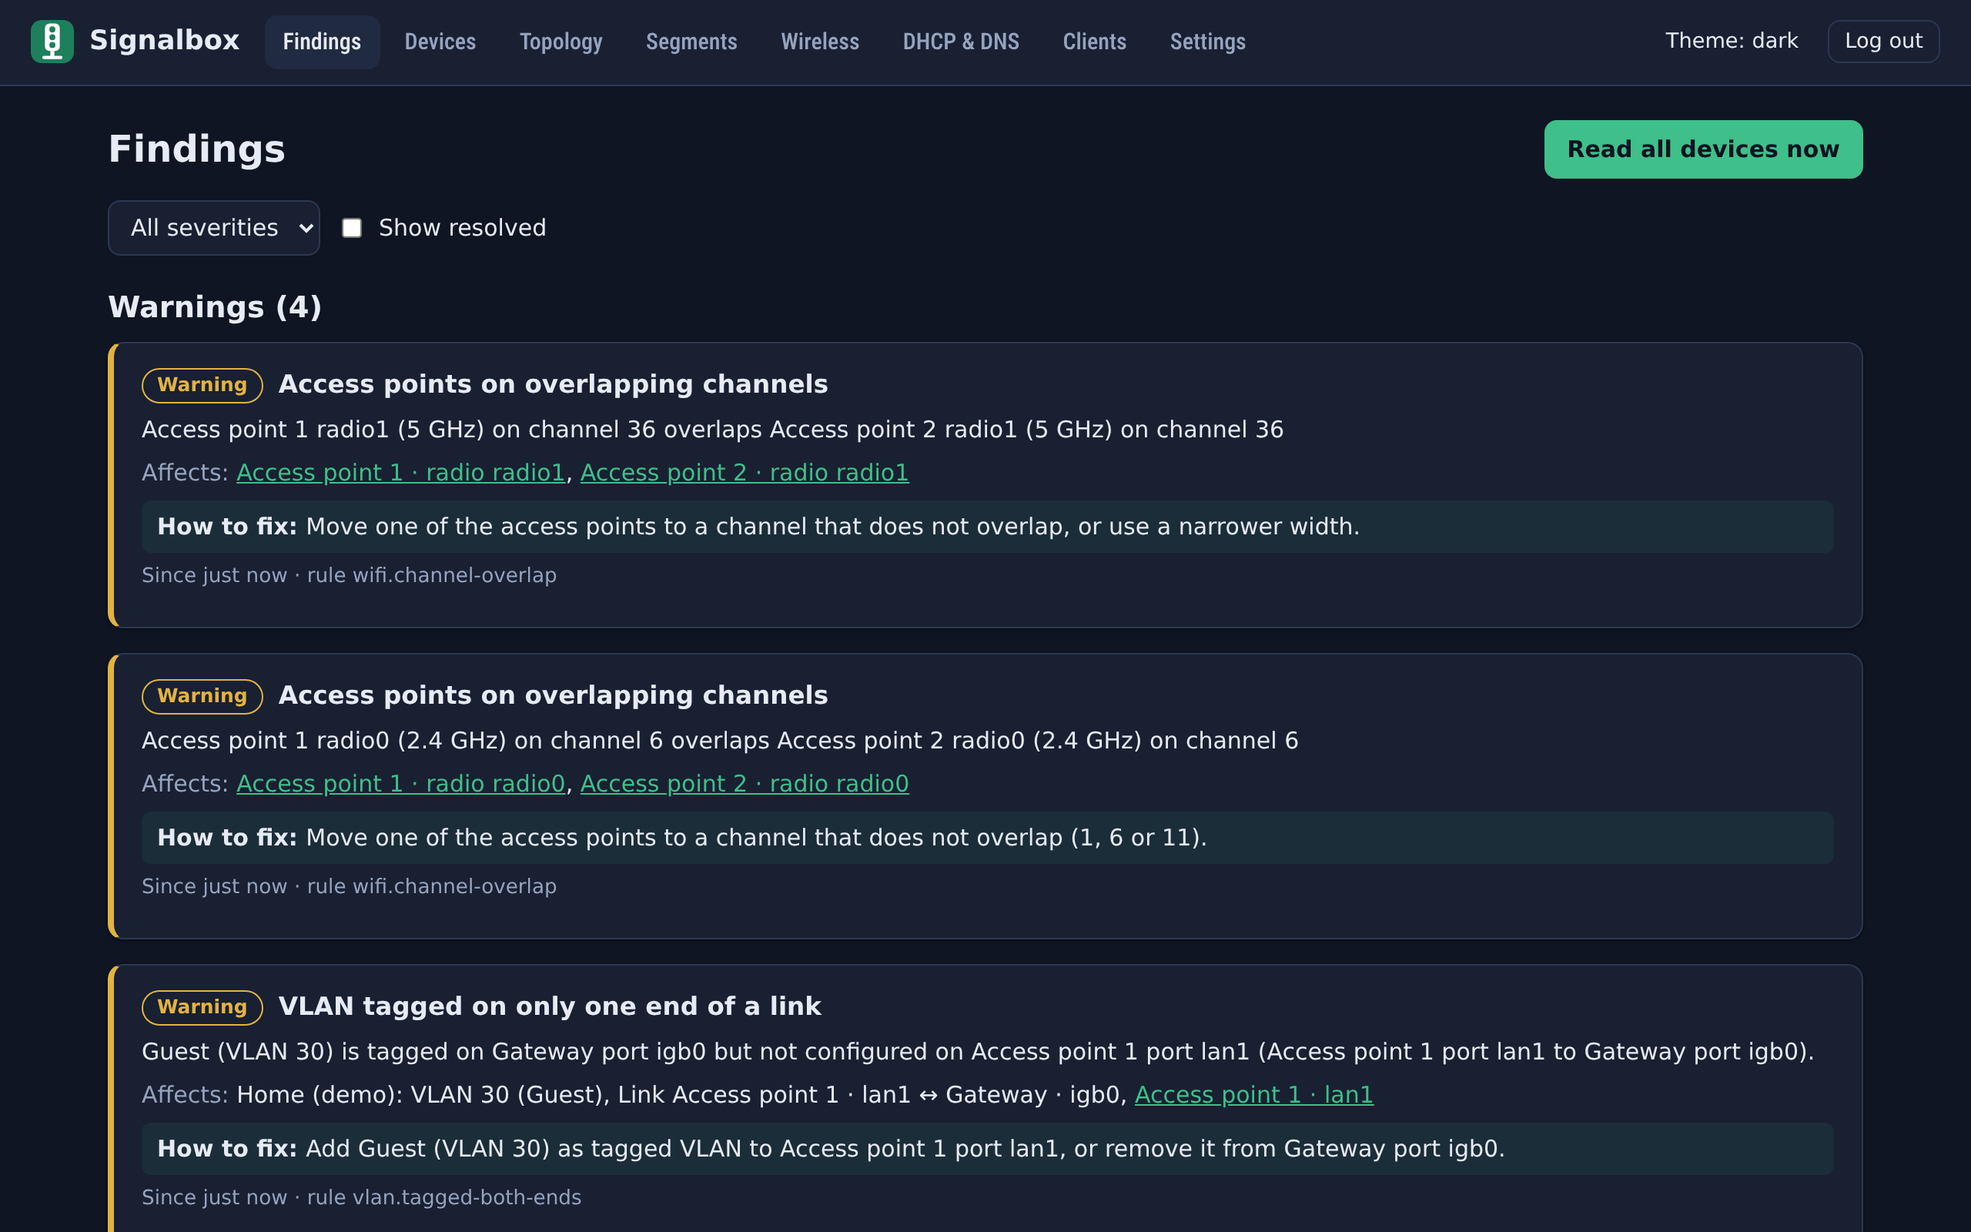
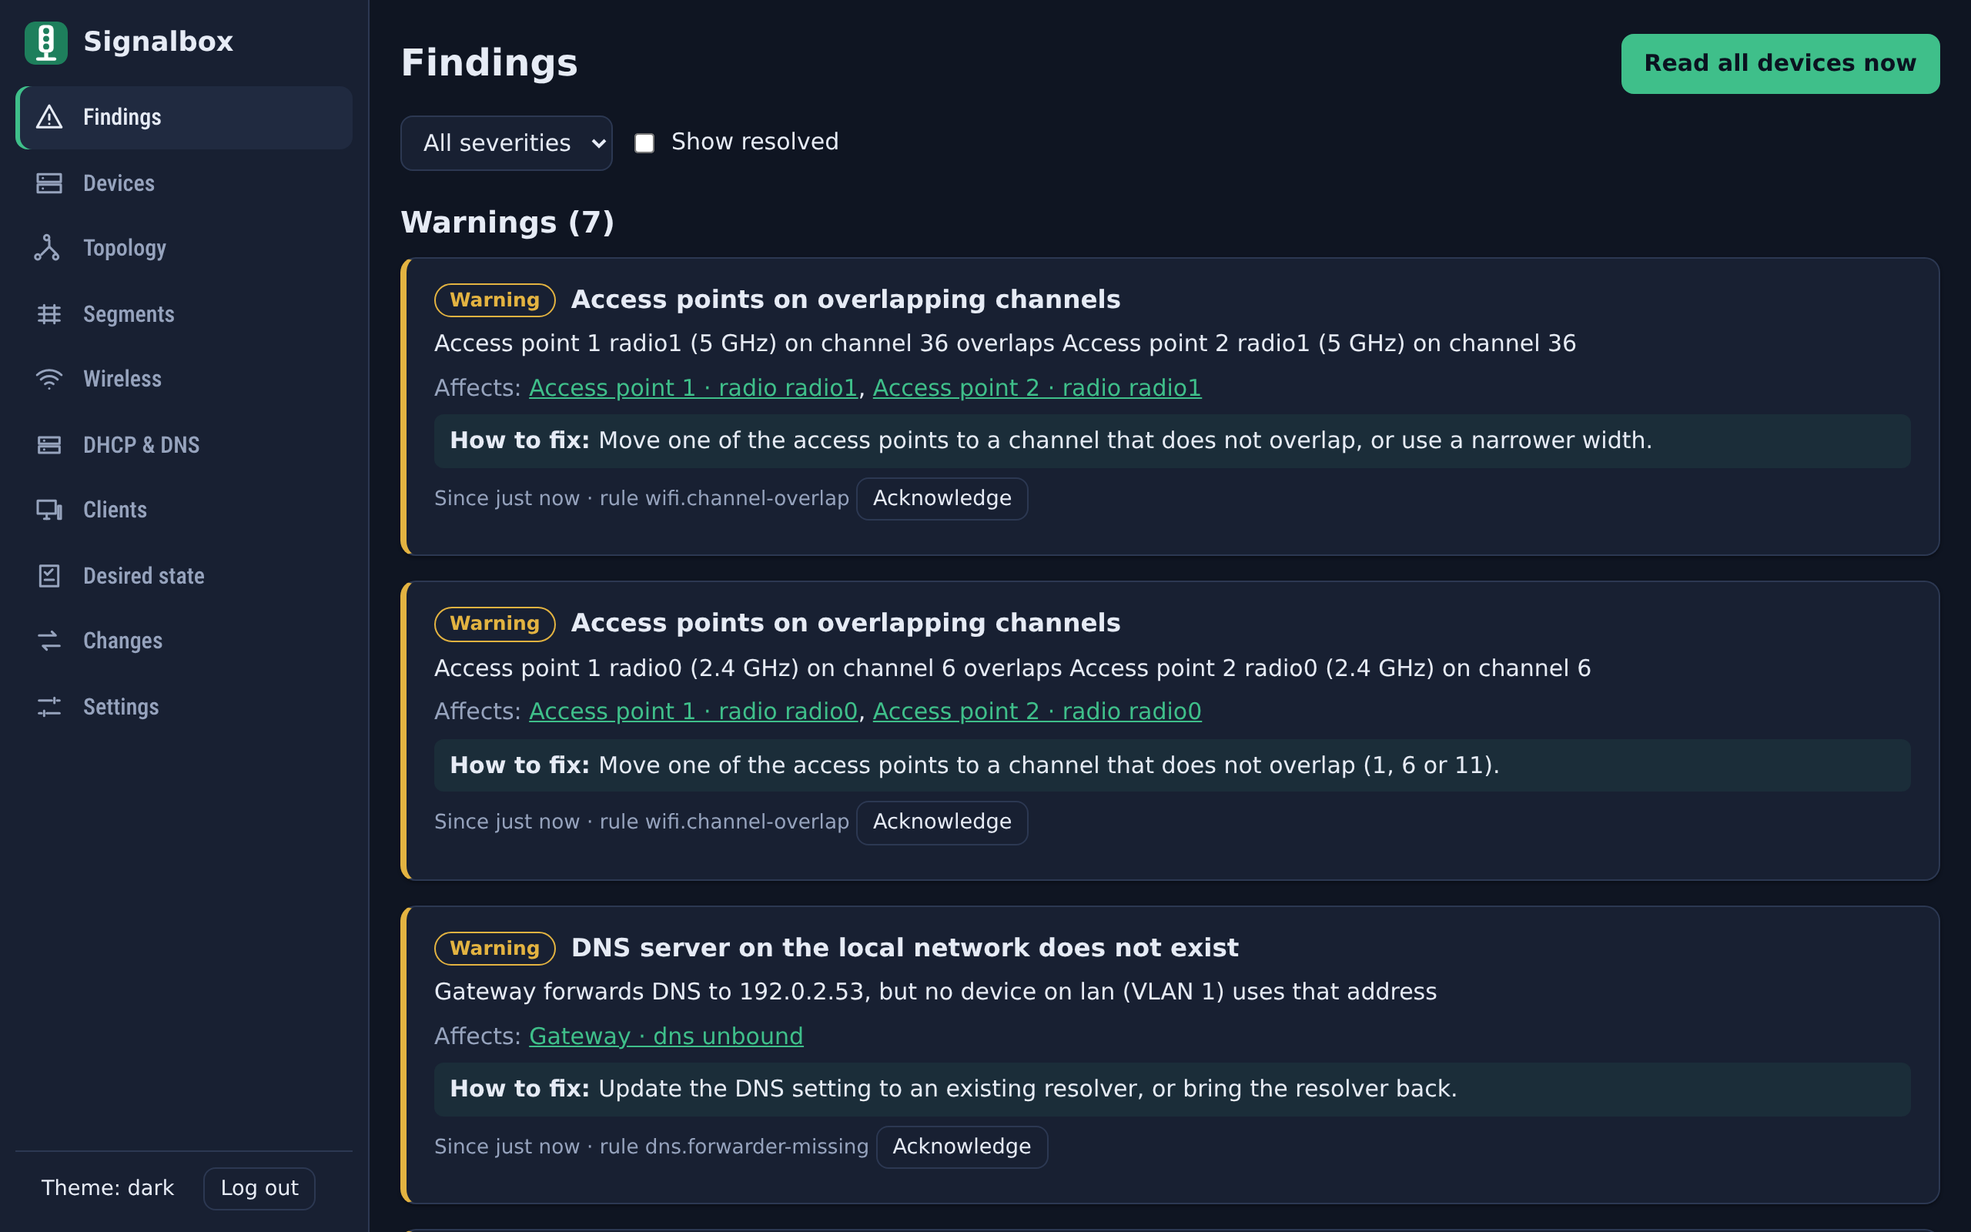
UI: side bar on wide screens, menu drawer on narrow ones (#230) (#234)
- Left side bar (icons, brand, theme, log out) from 1100 px; compact top bar with menu button below
- Drawer: aria-expanded, inert page behind, focus trap, Esc/scrim/navigation close
- e2e tests at phone, tablet and desktop sizes in both themes
- Screenshots regenerated (demo data), new phone menu shot; fix dark-theme switch in the tool

diff --git a/src/signalbox/web/static/nav.js b/src/signalbox/web/static/nav.js
@@ -1,0 +1,114 @@
+// Navigation shell: a side bar on wide screens, a compact top bar plus the same side bar as a drawer
+// on narrow ones. Icons are built with setAttribute, never from markup strings.
+import { h, s } from './util.js';
+
+export const WIDE = window.matchMedia('(min-width: 1100px)');
+
+// 24x24 stroke icons, one path string per shape.
+const ICONS = {
+  findings: ['M12 3 2.5 20h19L12 3z', 'M12 10v4', 'M12 17.2v.1'],
+  devices: ['M3 5h18v6H3z', 'M3 13h18v6H3z', 'M7 8h.01', 'M7 16h.01'],
+  topology: ['M12 4a2 2 0 1 0 0 .01', 'M5 19a2 2 0 1 0 0 .01', 'M19 19a2 2 0 1 0 0 .01', 'M12 6v5l-6 6', 'M12 11l6 6'],
+  segments: ['M4 7h16', 'M4 12h16', 'M4 17h16', 'M8 5v14', 'M16 5v14'],
+  wireless: ['M2.5 9a14 14 0 0 1 19 0', 'M5.5 12.5a9.5 9.5 0 0 1 13 0', 'M8.8 16a5 5 0 0 1 6.4 0', 'M12 19.5v.01'],
+  services: ['M4 6h16v5H4z', 'M4 13h16v5H4z', 'M8 8.5h.01', 'M8 15.5h.01'],
+  clients: ['M3 5h14v10H3z', 'M8 19h4', 'M10 15v4', 'M19 9h2v10h-2z'],
+  desired: ['M5 4h14v16H5z', 'M8.5 9l2 2 4-4', 'M8.5 15h7'],
+  changes: ['M4 8h13l-3-3', 'M20 16H7l3 3'],
+  settings: ['M4 7h10', 'M18 7h2', 'M4 17h2', 'M10 17h10', 'M16 5v4', 'M8 15v4'],
+  menu: ['M4 6h16', 'M4 12h16', 'M4 18h16'],
+  close: ['M6 6l12 12', 'M18 6L6 18'],
+};
+
+export function icon(name) {
+  return s(
+    'svg',
+    { class: 'icon', viewBox: '0 0 24 24', width: '20', height: '20', fill: 'none', stroke: 'currentColor', 'stroke-width': '1.8', 'stroke-linecap': 'round', 'stroke-linejoin': 'round', 'aria-hidden': 'true', focusable: 'false' },
+    ICONS[name].map((d) => s('path', { d })),
+  );
+}
+
+const FOCUSABLE = 'a[href], button:not([disabled])';
+let closeCurrent = null;
+
+// Close the drawer when the screen becomes wide while it is open.
+WIDE.addEventListener('change', () => {
+  if (WIDE.matches && closeCurrent) closeCurrent(false);
+});
+
+/**
+ * items: [[key, href, label]]; current: key of the active section; brand(): a logo node;
+ * actions: node with theme and log out. Returns {shell, content}; the caller fills content.
+ */
+export function buildShell({ items, current, brand, actions }) {
+  const currentLabel = (items.find(([key]) => key === current) || [])[2] || '';
+  const menuBtn = h(
+    'button',
+    { class: 'btn menu-btn', type: 'button', 'aria-label': 'Menu', 'aria-expanded': 'false', 'aria-controls': 'sidebar', 'data-testid': 'nav-menu' },
+    icon('menu'),
+  );
+  const topbar = h(
+    'header',
+    { class: 'topbar' },
+    menuBtn,
+    h('a', { class: 'brand', href: '#/', 'aria-label': 'Signalbox' }, brand(), h('span', { class: 'brand-text' }, 'Signalbox')),
+    h('span', { class: 'current-section', 'data-testid': 'nav-current' }, currentLabel),
+  );
+  const nav = h(
+    'nav',
+    { class: 'nav', 'aria-label': 'Main' },
+    items.map(([key, href, text]) =>
+      h('a', { href, 'aria-current': current === key ? 'page' : null, 'data-testid': `nav-${key}` }, icon(key), h('span', { class: 'nav-label' }, text)),
+    ),
+  );
+  const closeBtn = h('button', { class: 'btn ghost close-btn', type: 'button', 'aria-label': 'Close menu', 'data-testid': 'nav-close' }, icon('close'));
+  const sidebar = h(
+    'div',
+    { class: 'sidebar', id: 'sidebar' },
+    h('div', { class: 'sidebar-head' }, h('a', { class: 'brand', href: '#/', 'aria-label': 'Signalbox, start page' }, brand(), 'Signalbox'), closeBtn),
+    nav,
+    actions,
+  );
+  const scrim = h('div', { class: 'scrim', 'data-testid': 'nav-scrim' });
+  const content = h('div', { class: 'content' });
+  const shell = h('div', { class: 'shell' }, topbar, sidebar, scrim, content);
+
+  const setOpen = (open, restoreFocus = true) => {
+    shell.classList.toggle('drawer-open', open);
+    menuBtn.setAttribute('aria-expanded', String(open));
+    for (const el of [topbar, content]) el.toggleAttribute('inert', open);
+    if (open) {
+      closeCurrent = () => setOpen(false, false);
+      (nav.querySelector('[aria-current="page"]') || nav.querySelector('a')).focus();
+    } else {
+      closeCurrent = null;
+      if (restoreFocus && sidebar.contains(document.activeElement)) menuBtn.focus();
+    }
+  };
+  menuBtn.addEventListener('click', () => setOpen(!shell.classList.contains('drawer-open')));
+  closeBtn.addEventListener('click', () => setOpen(false));
+  scrim.addEventListener('click', () => setOpen(false));
+  // A link to the page already shown does not change the hash, so close explicitly.
+  nav.addEventListener('click', (e) => {
+    if (e.target.closest('a')) setOpen(false, false);
+  });
+  sidebar.addEventListener('keydown', (e) => {
+    if (!shell.classList.contains('drawer-open')) return;
+    if (e.key === 'Escape') {
+      e.preventDefault();
+      setOpen(false);
+    } else if (e.key === 'Tab') {
+      const stops = [...sidebar.querySelectorAll(FOCUSABLE)].filter((el) => el.offsetParent !== null);
+      const first = stops[0];
+      const last = stops[stops.length - 1];
+      if (e.shiftKey && document.activeElement === first) {
+        e.preventDefault();
+        last.focus();
+      } else if (!e.shiftKey && document.activeElement === last) {
+        e.preventDefault();
+        first.focus();
+      }
+    }
+  });
+  return { shell, content };
+}

diff --git a/src/signalbox/web/static/style.css b/src/signalbox/web/static/style.css
@@ -33,14 +33,36 @@ h1 { font-size: 1.5rem; } h2 { font-size: 1.2rem; } h3 { font-size: 1.02rem; }
 :focus-visible { outline: 2px solid var(--accent); outline-offset: 2px; }
 [hidden] { display: none !important; }
 
-.topbar { display: flex; align-items: center; gap: 16px; padding: 10px 20px; background: var(--surface); border-bottom: 1px solid var(--border); position: sticky; top: 0; z-index: 10; }
-.brand { display: flex; align-items: center; gap: 10px; font-weight: 700; font-size: 1.1rem; color: var(--text); text-decoration: none; }
-.brand .logo { width: 28px; height: 28px; border-radius: 7px; }
+.brand { display: flex; align-items: center; gap: 10px; font-weight: 700; font-size: 1.1rem; color: var(--text); text-decoration: none; white-space: nowrap; }
+.brand .logo { width: 28px; height: 28px; border-radius: 7px; flex: none; }
 .login .brand .logo { width: 40px; height: 40px; border-radius: 10px; }
-.nav { display: flex; gap: 4px; flex: 1; }
-.nav a { padding: 6px 12px; border-radius: 8px; color: var(--muted); text-decoration: none; font-weight: 500; }
-.nav a[aria-current="page"] { background: var(--surface-2); color: var(--text); }
-.topbar-actions { display: flex; gap: 8px; align-items: center; }
+.content { min-width: 0; }
+
+/* navigation: side bar on wide screens, drawer behind a menu button on narrow ones */
+.topbar { display: none; }
+.sidebar { position: fixed; inset: 0 auto 0 0; width: 240px; display: flex; flex-direction: column; gap: 8px; padding: 14px 10px; background: var(--surface); border-right: 1px solid var(--border); z-index: 40; overflow-y: auto; }
+.sidebar-head { display: flex; align-items: center; justify-content: space-between; padding: 0 6px 6px; }
+.close-btn { display: none; padding: 4px 6px; }
+.nav { display: flex; flex-direction: column; gap: 2px; flex: 1; }
+.nav a { display: flex; align-items: center; gap: 12px; padding: 9px 12px; border-radius: 8px; color: var(--muted); text-decoration: none; font-weight: 500; white-space: nowrap; }
+.nav a:hover { background: var(--surface-2); }
+.nav a[aria-current="page"] { background: var(--surface-2); color: var(--text); box-shadow: inset 3px 0 0 var(--accent); }
+.nav .icon, .menu-btn .icon, .close-btn .icon { flex: none; }
+.sidebar-actions { display: flex; gap: 8px; align-items: center; flex-wrap: wrap; padding: 10px 6px 0; border-top: 1px solid var(--border); }
+.scrim { display: none; }
+.content { margin-left: 240px; }
+@media (max-width: 1099px) {
+  .content { margin-left: 0; }
+  .topbar { display: flex; align-items: center; gap: 10px; padding: 6px 10px; background: var(--surface); border-bottom: 1px solid var(--border); position: sticky; top: 0; z-index: 10; }
+  .menu-btn { display: flex; padding: 5px 8px; flex: none; }
+  .current-section { margin-left: auto; min-width: 0; overflow: hidden; text-overflow: ellipsis; white-space: nowrap; font-weight: 600; }
+  .sidebar { width: min(300px, 86vw); transform: translateX(-100%); visibility: hidden; transition: transform .2s ease, visibility 0s .2s; box-shadow: var(--shadow); }
+  .drawer-open .sidebar { transform: none; visibility: visible; transition: transform .2s ease; }
+  .close-btn { display: block; }
+  .drawer-open .scrim { display: block; position: fixed; inset: 0; background: rgb(8 12 22 / 55%); z-index: 30; }
+}
+@media (max-width: 420px) { .brand-text { display: none; } }
+@media (prefers-reduced-motion: reduce) { .sidebar { transition: none !important; } }
 main { max-width: 1180px; margin: 0 auto; padding: 22px 20px 40px; }
 .banner { background: color-mix(in srgb, var(--warn) 18%, var(--surface)); border-bottom: 1px solid var(--warn); padding: 6px 20px; text-align: center; font-size: .9rem; }
 footer { max-width: 1180px; margin: 0 auto; padding: 18px 20px 30px; color: var(--muted); font-size: .85rem; border-top: 1px solid var(--border); }
@@ -191,11 +213,6 @@ legend { font-weight: 600; padding: 0 4px; }
 /* phones */
 @media (max-width: 640px) {
   main { padding: 10px 10px 24px; }
-  .topbar { position: static; padding: 8px 10px; gap: 8px; flex-wrap: wrap; }
-  .topbar-actions { margin-left: auto; }
-  .topbar-actions .btn { padding: 3px 8px; }
-  .nav { order: 3; flex-basis: 100%; flex-wrap: wrap; }
-  .nav a { padding: 4px 8px; }
   .card { padding: 12px; border-radius: 8px; }
   .page-head h1 { font-size: 1.25rem; }
   input[type=text], input[type=password], input[type=number], input[type=search], select, textarea { max-width: none; }

diff --git a/src/signalbox/web/static/app.js b/src/signalbox/web/static/app.js
@@ -1,7 +1,8 @@
 // Entry point: session handling, shell and hash router.
 import { get, onUnauthorized, post } from './api.js';
-import { append, clear, h } from './util.js';
+import { clear, h } from './util.js';
 import { showError } from './ui.js';
+import { buildShell } from './nav.js';
 import { renderFindings } from './views/findings.js';
 import { renderDevices, renderDeviceForm } from './views/devices.js';
 import { renderDevice } from './views/device.js';
@@ -146,14 +147,9 @@ async function render() {
   const route = routeInfo();
   const session = state.session;
   clear(root);
-  const nav = h(
-    'nav',
-    { class: 'nav', 'aria-label': 'Main' },
-    NAV.map(([key, href, text]) => h('a', { href, 'aria-current': route.nav === key ? 'page' : null, 'data-testid': `nav-${key}` }, text)),
-  );
   const actions = h(
     'div',
-    { class: 'topbar-actions' },
+    { class: 'sidebar-actions' },
     themeToggle(),
     h(
       'button',
@@ -169,9 +165,10 @@ async function render() {
       'Log out',
     ),
   );
-  append(root, [h('header', { class: 'topbar' }, h('a', { class: 'brand', href: '#/' }, LOGO(), 'Signalbox'), nav, actions)]);
+  const { shell, content } = buildShell({ items: NAV, current: route.nav, brand: LOGO, actions });
+  root.append(shell);
   const main = h('main', { id: 'main', tabindex: '-1' });
-  root.append(main, footer(session));
+  content.append(main, footer(session));
   try {
     if (route.name === 'findings') await renderFindings(main, ctx);
     else if (route.name === 'devices') await renderDevices(main, ctx);

diff --git a/tests/e2e/test_ui.py b/tests/e2e/test_ui.py
@@ -380,7 +380,7 @@ def test_phone_has_no_horizontal_scroll(page: Any, server: Any, hash_: str) -> N
     page.goto(server.url)
     page.get_by_test_id("login-password").fill(PASSWORD)
     page.get_by_test_id("login-submit").click()
-    page.get_by_test_id("logout").wait_for()
+    page.get_by_test_id("logout").wait_for(state="attached")
     page.server = server
     add_site(page)
     add_lab(page, "Router")
@@ -694,3 +694,125 @@ def test_acknowledge_a_finding_and_annotate_objects(app: Any) -> None:
     app.get_by_test_id("client-notes").click()
     app.get_by_test_id("note-remove").click()
     expect(app.get_by_test_id("client-label")).to_have_count(0)
+
+
+def _login(page: Any, server: Any, width: int, height: int) -> None:
+    page.set_viewport_size({"width": width, "height": height})
+    page.set_default_timeout(15000)
+    page.goto(server.url)
+    page.get_by_test_id("login-password").fill(PASSWORD)
+    page.get_by_test_id("login-submit").click()
+    page.get_by_test_id("nav-findings").wait_for(state="attached")
+    page.server = server
+
+
+def _too_wide(page: Any) -> list[str]:
+    result: list[str] = page.evaluate(
+        """() => [...document.querySelectorAll('body *')]
+          .filter((e) => { const r = e.getBoundingClientRect();
+            return r.width > 0 && getComputedStyle(e).visibility !== 'hidden'
+              && !e.closest('.table-wrap, .topo-wrap, pre, svg')
+              && r.right > window.innerWidth + 1; })
+          .map((e) => e.tagName + '.' + e.className)"""
+    )
+    return result
+
+
+def _no_wrapped_labels(page: Any) -> None:
+    heights = page.evaluate(
+        "[...document.querySelectorAll('.nav a')].map((a) => a.getBoundingClientRect().height)"
+    )
+    assert max(heights) - min(heights) < 2, heights
+
+
+@pytest.mark.parametrize("theme", ["light", "dark"])
+@pytest.mark.parametrize("size", [(390, 844), (320, 640), (820, 1180)])
+def test_narrow_screens_use_a_drawer(
+    page: Any, server: Any, size: tuple[int, int], theme: str
+) -> None:
+    _login(page, server, *size)
+    page.evaluate(f"localStorage.setItem('theme', '{theme}')")
+    page.reload()
+    menu = page.get_by_test_id("nav-menu")
+    expect(menu).to_be_visible()
+    expect(menu).to_have_attribute("aria-expanded", "false")
+    expect(page.get_by_test_id("logout")).to_be_hidden()
+    expect(page.get_by_test_id("nav-current")).to_have_text("Findings")
+    assert page.evaluate("document.documentElement.scrollWidth <= window.innerWidth")
+    assert page.locator("header.topbar").bounding_box()["height"] < 70  # one row
+
+    menu.click()
+    expect(menu).to_have_attribute("aria-expanded", "true")
+    expect(page.locator("nav[aria-label=Main]")).to_be_visible()
+    expect(page.get_by_test_id("nav-findings")).to_be_focused()
+    expect(page.get_by_test_id("theme")).to_be_visible()
+    expect(page.get_by_test_id("logout")).to_be_visible()
+    _no_wrapped_labels(page)
+    assert _too_wide(page) == []
+    expect(page.get_by_test_id("theme")).to_have_text(f"Theme: {theme}")
+    page.get_by_test_id("theme").click()
+    expect(page.get_by_test_id("theme")).not_to_have_text(f"Theme: {theme}")
+
+    page.keyboard.press("Escape")  # Esc closes and gives the focus back
+    expect(menu).to_have_attribute("aria-expanded", "false")
+    expect(menu).to_be_focused()
+    expect(page.get_by_test_id("logout")).to_be_hidden()
+
+    menu.click()  # a tap outside closes
+    page.get_by_test_id("nav-scrim").click(position={"x": size[0] - 5, "y": 300})
+    expect(menu).to_have_attribute("aria-expanded", "false")
+
+    menu.click()  # focus stays inside the drawer
+    for _ in range(14):
+        page.keyboard.press("Tab")
+        assert page.evaluate("!!document.activeElement.closest('.sidebar')")
+
+    page.get_by_test_id("nav-services").click()  # closes on navigation
+    expect(page.get_by_test_id("nav-current")).to_have_text("DHCP & DNS")
+    expect(menu).to_have_attribute("aria-expanded", "false")
+    expect(page.get_by_test_id("logout")).to_be_hidden()
+    menu.click()
+    expect(page.get_by_test_id("nav-services")).to_have_attribute("aria-current", "page")
+    page.get_by_test_id("nav-services").click()  # same page: still closes
+    expect(menu).to_have_attribute("aria-expanded", "false")
+    menu.click()
+    page.get_by_test_id("logout").click()
+    expect(page.get_by_test_id("login-submit")).to_be_visible()
+
+
+@pytest.mark.parametrize("theme", ["light", "dark"])
+@pytest.mark.parametrize("size", [(1280, 800), (1440, 900), (1100, 700)])
+def test_wide_screens_have_a_side_bar(
+    page: Any, server: Any, size: tuple[int, int], theme: str
+) -> None:
+    _login(page, server, *size)
+    page.evaluate(f"localStorage.setItem('theme', '{theme}')")
+    page.reload()
+    expect(page.get_by_test_id("nav-menu")).to_be_hidden()
+    for key in [
+        "findings", "devices", "topology", "segments", "wireless",
+        "services", "clients", "desired", "changes", "settings",
+    ]:  # fmt: skip
+        expect(page.get_by_test_id(f"nav-{key}")).to_be_visible()
+    expect(page.get_by_test_id("theme")).to_be_visible()
+    expect(page.get_by_test_id("logout")).to_be_visible()
+    _no_wrapped_labels(page)
+    assert _too_wide(page) == []
+    box = page.locator(".sidebar").bounding_box()
+    main = page.locator("main").bounding_box()
+    assert box["x"] == 0 and main["x"] >= box["width"]
+    page.get_by_test_id("nav-services").click()
+    expect(page.get_by_test_id("nav-services")).to_have_attribute("aria-current", "page")
+    expect(page.get_by_test_id("nav-findings")).not_to_have_attribute("aria-current", "page")
+    page.get_by_test_id("logout").click()
+    expect(page.get_by_test_id("login-submit")).to_be_visible()
+
+
+def test_drawer_closes_when_the_screen_gets_wide(page: Any, server: Any) -> None:
+    _login(page, server, 800, 900)
+    page.get_by_test_id("nav-menu").click()
+    page.set_viewport_size({"width": 1280, "height": 900})
+    expect(page.get_by_test_id("nav-menu")).to_be_hidden()
+    expect(page.get_by_test_id("logout")).to_be_visible()
+    page.get_by_test_id("nav-devices").click()
+    expect(page.get_by_test_id("nav-devices")).to_have_attribute("aria-current", "page")

diff --git a/tools/screenshots.py b/tools/screenshots.py
@@ -68,7 +68,7 @@ def main() -> None:
                     login(page, base)
                     for name, route in DESKTOP:
                         shoot(page, base, name, route)
-                    page.evaluate("localStorage.set_item('theme', 'dark')")
+                    page.evaluate("localStorage.setItem('theme', 'dark')")
                     page.reload()
                     shoot(page, base, "findings-dark", "#/")
                     page.evaluate("localStorage.removeItem('theme')")
@@ -76,6 +76,9 @@ def main() -> None:
                     login(phone, base)
                     for name, route in PHONE:
                         shoot(phone, base, name, route)
+                    phone.get_by_test_id("nav-menu").click()
+                    phone.wait_for_timeout(400)
+                    phone.screenshot(path=str(OUT / "phone-menu.png"), full_page=False)
                     browser.close()
         finally:
             svc.close()

diff --git a/docs/screenshots.md b/docs/screenshots.md
@@ -9,3 +9,4 @@ Taken from `signalbox demo` (a simulated OPNsense gateway and two OpenWrt access
 | ![Devices](screenshots/devices.png) Devices with their status | ![Topology](screenshots/topology.png) Topology: cables, ports, VLANs per link |
 | ![Wireless](screenshots/wireless.png) Wi-Fi: SSIDs across access points | ![Segments](screenshots/segments.png) Segments (VLANs) and their ports |
 | ![Phone, findings](screenshots/phone-findings.png) Findings on a phone | ![Phone, devices](screenshots/phone-devices.png) Devices on a phone |
+| ![Phone, menu](screenshots/phone-menu.png) The menu drawer on a phone | |
